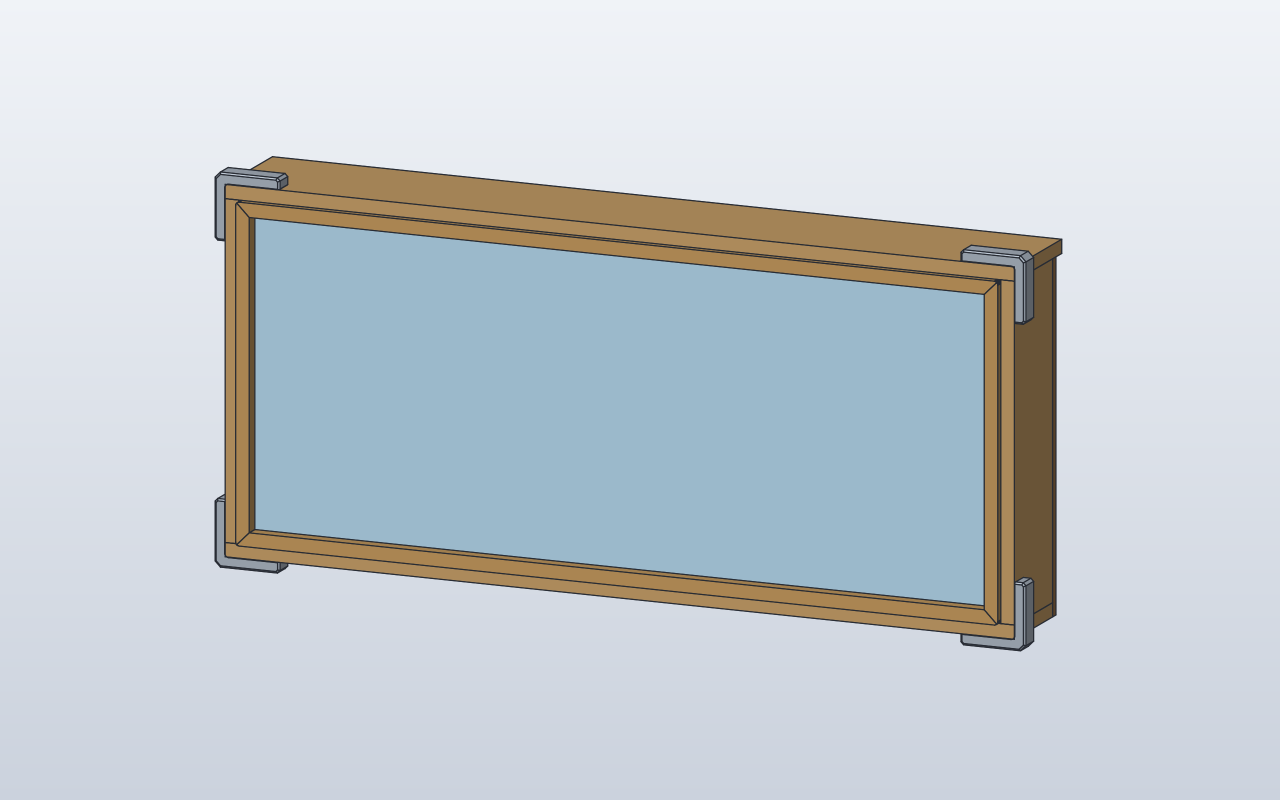
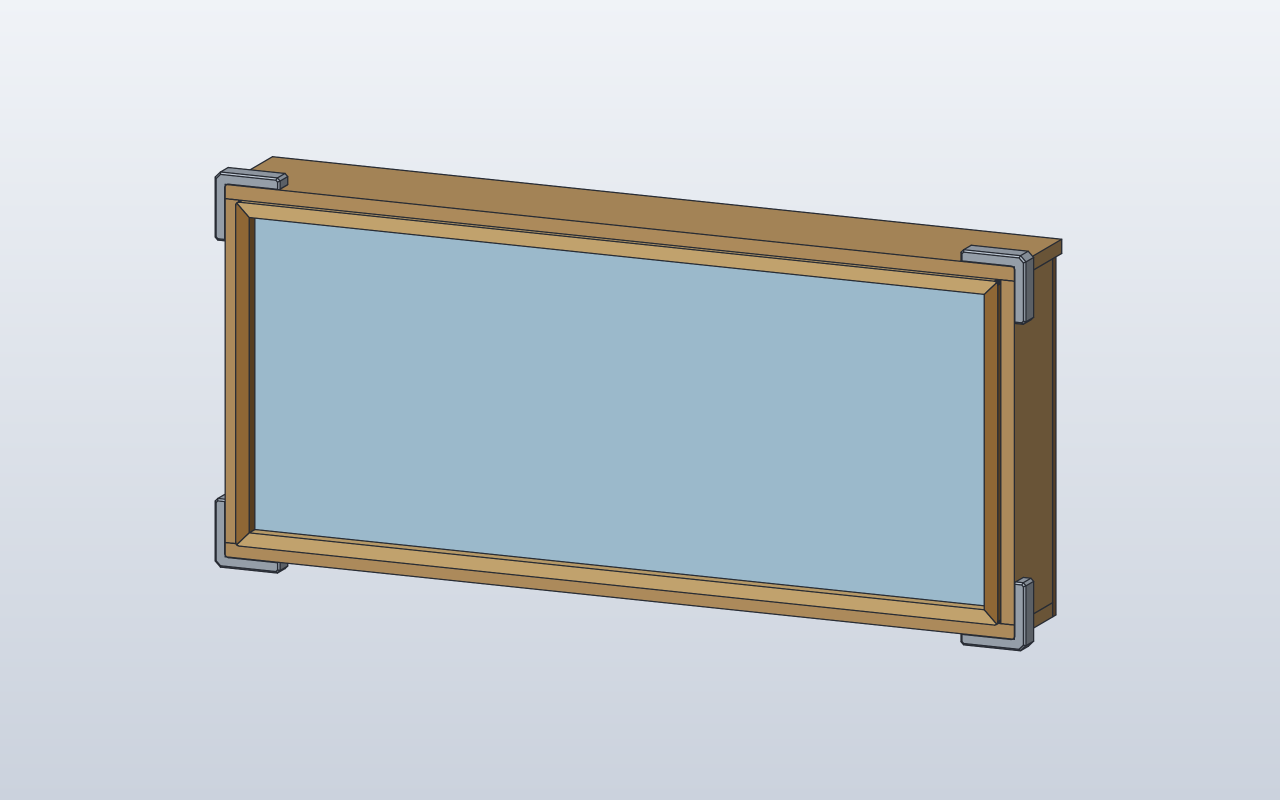
Verified SolidCraft CAD website at d52d520694fe9cb012f90784e011cd098c0a579b d52d520694fe9cb012f90784e011cd098c0a579b

Changed region(s): [[0.1875, 0.25, 0.7812, 0.7812]]

diff --git a/index.html b/index.html
@@ -59,7 +59,7 @@
 <h3>2 · Compile commands</h3><p>SCPF outputs native SolidCraft commands, with named parameters and a sequence of CAD operations.</p></section>
 <section class="panel"><h3>3 · Execute in SolidCraft</h3><p>The SolidCraft engine creates editable geometry, and CI validates its results. CAD and verification assets are only published when they match the source revision.</p>
 <h3>4 · Inspect the result</h3><p>Review the command timeline, native measurements and optional rendered preview. An unverified model is labelled as such.</p></section></div>
-<p class="small muted">CAD source revision: <code>8e906cbe5e3ef4ae97507cfb068f198f6397a477</code><br>
+<p class="small muted">CAD source revision: <code>d52d520694fe9cb012f90784e011cd098c0a579b</code><br>
 SCPF library revision: <a href="https://github.com/brainboxemb/lib.py.solidcraft/commit/f9ee5ce2b95f42f7547b208c6c934d7d85d2e2b3"><code>f9ee5ce2b95f42f7547b208c6c934d7d85d2e2b3</code></a><br>SolidCraft engine: <strong>0.30.1 tested</strong>; older releases are refused by the SCPF compatibility guard, newer releases warn.</p></main><footer><div class="wrap"><strong>SolidCraft CAD</strong> renders and verifies the real geometry.
 <a href="https://brainboxemb.github.io/lib.py.solidcraft/">SCPF examples &amp; cheatsheet →</a></div></footer>
 </body></html>

diff --git a/models/hub75-wood-frame/index.html b/models/hub75-wood-frame/index.html
@@ -803,7 +803,7 @@ WoodenHub75BasicBox()
   &quot;params&quot;: {
     &quot;name&quot;: &quot;LIGHTPLY glazing side strip&quot;,
     &quot;density_g_cm3&quot;: 0.55,
-    &quot;color&quot;: &quot;#C89D61&quot;
+    &quot;color&quot;: &quot;#A9793E&quot;
   }
 }</code></pre></li>
 <li><strong>Assign material</strong><small>material.assign</small><pre><code>{
@@ -985,7 +985,7 @@ WoodenHub75BasicBox()
   &quot;params&quot;: {
     &quot;name&quot;: &quot;LIGHTPLY glazing cross strip&quot;,
     &quot;density_g_cm3&quot;: 0.55,
-    &quot;color&quot;: &quot;#C89D61&quot;
+    &quot;color&quot;: &quot;#E3BF80&quot;
   }
 }</code></pre></li>
 <li><strong>Assign material</strong><small>material.assign</small><pre><code>{
